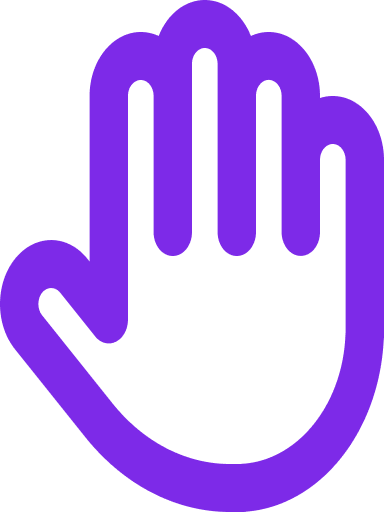
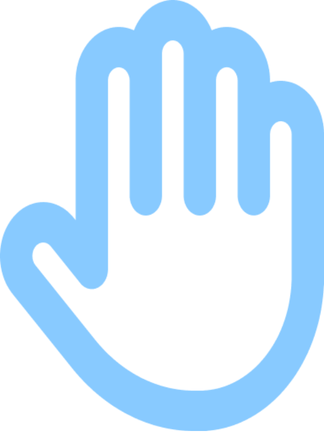
Mäng on valmis

diff --git a/styles.css b/styles.css
@@ -22,21 +22,21 @@ body {
   max-width: 750px;
   width: 100%;
   padding: 2rem 5rem;
-  border-radius: 14px;
   background: #fff;
-  box-shadow: 0 5px 10px #c7c4c41a;
+  border: 5px solid #38b6ff;
 }
 
 .container h1 {
-  color: #1e3c9e;
+  color: #1348d0;
   text-align: center;
   font-size: 1.8rem;
 }
 
 .mangu-juhis {
   margin: 0.75rem 0 1.5rem;
-  color: #1e3c9e;
+  color: #1348d0;
   text-align: center;
+  font-size: 1.3rem;
 }
 
 .tulemuse-pildid {
@@ -51,7 +51,7 @@ body {
 }
 
 @keyframes usershake {
-    50% {
+   50%{
         transform: rotate(10deg)
     }
 }
@@ -81,7 +81,7 @@ body {
 .tulemus {
   text-align: center;
   font-size: 2rem;
-  color: #1e3c9e;
+  color: #1348d0;
   margin: 1.5rem 0;
 }
 
@@ -89,8 +89,8 @@ body {
   display: flex;
   justify-content: center;
   gap: 2rem;
-  color: #1e3c9e;
-  font-size: 1.1rem;
+  color: #1348d0;
+  font-size: 1.3rem;
 }
 
 .uuesti-alusta {
@@ -99,7 +99,7 @@ body {
   padding: 0.65rem 1rem;
   border: 0;
   border-radius: 4px;
-  background: #1e3c9e;
+  background: #1348d0;
   color: #fff;
   font-size: 1rem;
   cursor: pointer;
@@ -136,7 +136,6 @@ body {
   align-items: center;
   border: 0;
   background: transparent;
-  font: inherit;
   opacity: 0.5;
   cursor: pointer;
   transition: opacity 0.3s ease;
@@ -155,8 +154,8 @@ body {
 }
 
 .valik-pilt p {
-  color: #1e3c9e;
-  font-size: 1.235rem;
+  color: #1348d0;
+  font-size: 1.25rem;
   margin-top: 1rem;
   pointer-events: none;
 }

diff --git a/index.html b/index.html
@@ -11,7 +11,7 @@
   <body>
     <section class="container">
       <h1>Kivi, paber, käärid</h1>
-      <p class="mangu-juhis">Vali käik: kivi võidab käärid, käärid paberi ja paber kivi.</p>
+      <p class="mangu-juhis">Klõpsa kas valikule kivi, paber või käärid ning näe, kas võidad arvutit. Kivi võidab käärid, käärid lõikavad paberi ja paber katab kivi.</p>
 
       <!-- Tulemuste näitamise sektsioon -->
       <div class="tulemuse-väli">
@@ -27,7 +27,7 @@
         <!-- Kuva mängutulemuse teave -->
         <div class="tulemus" aria-live="polite">Vali kivi, paber või käärid.</div>
         <div class="skoor" aria-live="polite">
-          <p>Sina: <span id="kasutaja-skoor">0</span></p>
+          <p>Mängija: <span id="kasutaja-skoor">0</span></p>
           <p>Arvuti: <span id="boti-skoor">0</span></p>
         </div>
       </div>
